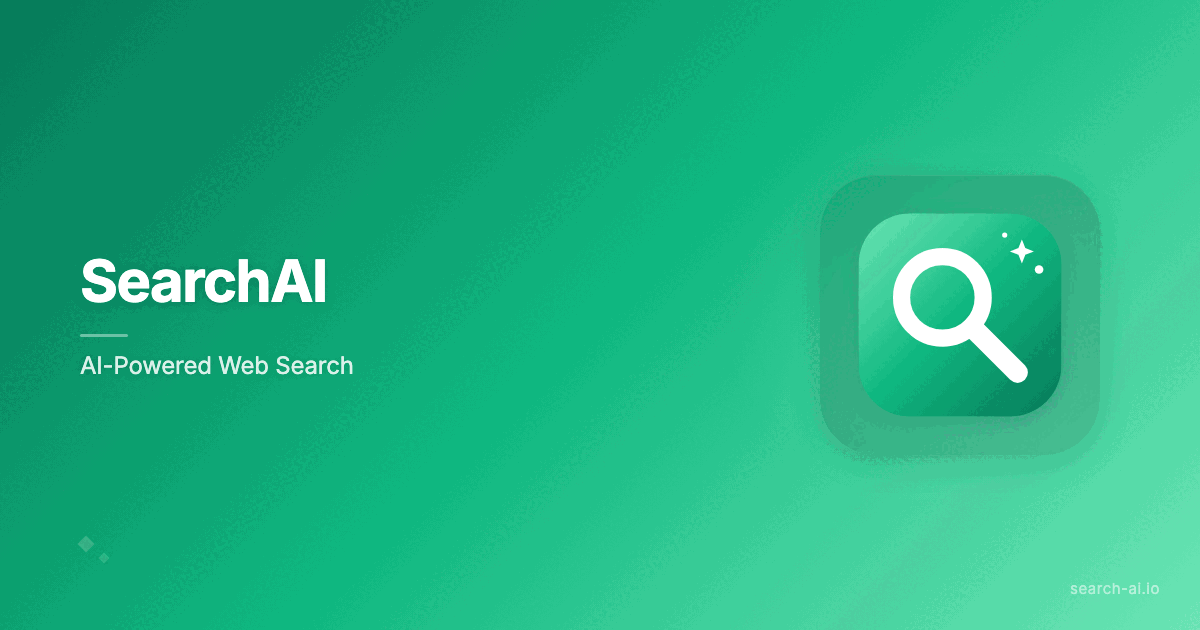
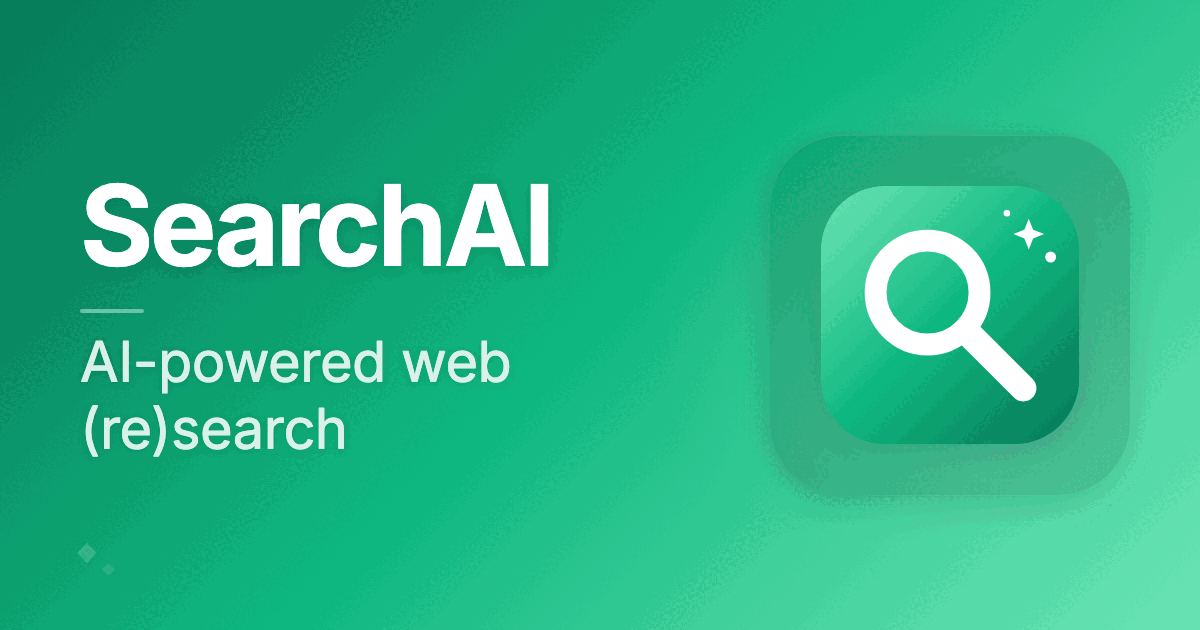
refactor(seo): extract shared SEO constants and harden proxy OG injection
The OG metadata feature (ef25a03) duplicated description/robots logic
inline in ogMeta.ts and inlined ~70 lines of fetch/inject/escape logic
in server.mjs. This extracts both into dedicated modules:

- convex/lib/constants/seo.ts: canonical source for description-for-privacy,
  robots-for-privacy, and the default chat title — consumed by ogMeta.ts
- scripts/lib/seoInject.mjs: fetchOgMeta (with discriminated ok/error
  results), injectMetaTags, and escapeHtml — consumed by server.mjs

The proxy now distinguishes infrastructure failures (502 + no-store)
from not-found (200 + no-cache) and resolved metadata (200 + max-age=60),
with X-OG-Meta-Status headers for observability. The silent catch-return-null
fallback is replaced with an explicit error path.

Also: renames rateLimited() to checkAndRecordHit() for clarity, fails
fast on invalid CONVEX_SITE_URL, and tightens ts-ignore comments in
ogMeta.ts with context explaining the permanent Convex TS2589 limitation.

- Extract convex/lib/constants/seo.ts with descriptionForPrivacy/robotsForPrivacy
- Extract scripts/lib/seoInject.mjs with fetchOgMeta/injectMetaTags
- Replace inline buildDescription/buildRobots in ogMeta.ts with imports
- Replace inline fetch/inject/escape in server.mjs with seoInject import
- Return 502 on OG metadata infrastructure failure instead of silent fallback
- Add X-OG-Meta-Status response header (resolved | not-found | error)
- Rename rateLimited() → checkAndRecordHit() for naming clarity
[…]

diff --git a/public/images/opengraph/searchai-og-card.html b/public/images/opengraph/searchai-og-card.html
@@ -42,11 +42,11 @@
     .card::after {
       content: '';
       position: absolute;
-      right: 80px;
+      right: 60px;
       top: 50%;
       transform: translateY(-50%);
-      width: 400px;
-      height: 400px;
+      width: 500px;
+      height: 500px;
       background: radial-gradient(circle, rgba(255,255,255,0.08) 0%, transparent 70%);
       pointer-events: none;
       z-index: 1;
@@ -62,85 +62,75 @@
     }
 
     .brand-name {
-      font-size: 58px;
+      font-size: 112px;
       font-weight: 700;
       color: #fff;
-      letter-spacing: -1.5px;
-      line-height: 1.1;
-      text-shadow: 0 2px 12px rgba(0,0,0,0.12);
+      letter-spacing: -3.5px;
+      line-height: 1.05;
+      text-shadow: 0 3px 16px rgba(0,0,0,0.12);
     }
 
     .tagline {
-      font-size: 24px;
+      font-size: 56px;
       font-weight: 400;
       color: rgba(255,255,255,0.85);
-      margin-top: 14px;
-      letter-spacing: -0.2px;
-      text-shadow: 0 1px 8px rgba(0,0,0,0.08);
+      margin-top: 16px;
+      letter-spacing: -0.5px;
+      line-height: 1.2;
+      max-width: 560px;
+      text-shadow: 0 2px 10px rgba(0,0,0,0.08);
     }
 
     /* Decorative accent line below brand name */
     .accent-line {
-      width: 48px;
-      height: 3px;
+      width: 64px;
+      height: 4px;
       background: rgba(255,255,255,0.4);
       border-radius: 2px;
-      margin-top: 20px;
-      margin-bottom: 6px;
+      margin-top: 24px;
+      margin-bottom: 8px;
     }
 
     /* Right icon area */
     .icon-area {
       position: absolute;
-      right: 100px;
+      right: 70px;
       top: 50%;
       transform: translateY(-50%);
       z-index: 2;
     }
 
     .icon-backdrop {
-      width: 280px;
-      height: 280px;
-      border-radius: 56px;
+      width: 360px;
+      height: 360px;
+      border-radius: 72px;
       background: rgba(0,0,0,0.12);
       backdrop-filter: blur(2px);
       display: flex;
       align-items: center;
       justify-content: center;
       box-shadow:
-        0 8px 32px rgba(0,0,0,0.15),
+        0 10px 40px rgba(0,0,0,0.15),
         inset 0 1px 0 rgba(255,255,255,0.08);
     }
 
     .icon-backdrop svg {
-      width: 220px;
-      height: 220px;
-      filter: drop-shadow(0 4px 12px rgba(0,0,0,0.1));
-    }
-
-    /* Bottom-right URL */
-    .url-label {
-      position: absolute;
-      bottom: 32px;
-      right: 40px;
-      font-size: 15px;
-      font-weight: 400;
-      color: rgba(255,255,255,0.55);
-      letter-spacing: 0.5px;
-      z-index: 2;
+      width: 280px;
+      height: 280px;
+      filter: drop-shadow(0 4px 16px rgba(0,0,0,0.1));
     }
 
     /* Subtle geometric accent — floating diamond */
     .geo-accent {
       position: absolute;
-      width: 12px;
-      height: 12px;
+      width: 14px;
+      height: 14px;
       background: rgba(255,255,255,0.15);
       transform: rotate(45deg);
       z-index: 2;
     }
-    .geo-accent.a1 { left: 80px; bottom: 80px; }
-    .geo-accent.a2 { left: 100px; bottom: 68px; width: 8px; height: 8px; background: rgba(255,255,255,0.1); }
+    .geo-accent.a1 { left: 80px; bottom: 70px; }
+    .geo-accent.a2 { left: 104px; bottom: 56px; width: 9px; height: 9px; background: rgba(255,255,255,0.1); }
   </style>
 </head>
 <body>
@@ -148,7 +138,7 @@
     <div class="text-block">
       <div class="brand-name">SearchAI</div>
       <div class="accent-line"></div>
-      <div class="tagline">AI-Powered Web Search</div>
+      <div class="tagline">AI-powered web (re)search</div>
     </div>
 
     <div class="icon-area">
@@ -172,8 +162,6 @@
         </svg>
       </div>
     </div>
-
-    <div class="url-label">search-ai.io</div>
 
     <div class="geo-accent a1"></div>
     <div class="geo-accent a2"></div>

diff --git a/convex/http/routes/ogMeta.ts b/convex/http/routes/ogMeta.ts
@@ -7,10 +7,16 @@
  */
 
 import { httpAction } from "../../_generated/server";
+import type { ActionCtx } from "../../_generated/server";
 import { api } from "../../_generated/api";
 import type { HttpRouter } from "convex/server";
 import { publicCorsResponse } from "../cors";
 import { isValidUuidV7 } from "../../lib/uuid_validation";
+import {
+  descriptionForPrivacy,
+  robotsForPrivacy,
+  DEFAULT_CHAT_TITLE,
+} from "../../lib/constants/seo";
 
 const MAX_ID_PARAM_LENGTH = 100;
 
@@ -21,26 +27,23 @@ type OgMeta = {
   robots: string;
 };
 
-function buildDescription(privacy: string): string {
-  if (privacy === "shared") return "Shared Research Chat on SearchAI";
-  return "AI-Powered Research Chat on SearchAI";
-}
-
-function buildRobots(privacy: string): string {
-  return privacy === "public" ? "index, follow" : "noindex, nofollow";
-}
-
 async function resolveChat(
-  ctx: { runQuery: typeof Object.prototype.constructor },
+  ctx: ActionCtx,
   shareId: string | undefined,
   publicId: string | undefined,
 ): Promise<{ title?: string; privacy?: string } | null> {
   if (shareId) {
-    // @ts-ignore - Known Convex TS2589 type instantiation issue on api.chats.*
+    // @ts-ignore — Permanent Convex limitation: deeply nested generated types
+    // in api.chats.* hit TypeScript's TS2589 "type instantiation excessively
+    // deep" cap. The same suppression is used across all HTTP route files
+    // (publish_export_data.ts, etc.). Convex tracks this upstream.
     return ctx.runQuery(api.chats.getChatByShareIdHttp, { shareId });
   }
   if (publicId) {
-    // @ts-ignore - Known Convex TS2589 type instantiation issue on api.chats.*
+    // @ts-ignore — Permanent Convex limitation: deeply nested generated types
+    // in api.chats.* hit TypeScript's TS2589 "type instantiation excessively
+    // deep" cap. The same suppression is used across all HTTP route files
+    // (publish_export_data.ts, etc.). Convex tracks this upstream.
     return ctx.runQuery(api.chats.getChatByPublicId, { publicId });
   }
   return null;
@@ -98,10 +101,10 @@ export function registerOgMetaRoutes(http: HttpRouter) {
 
       const privacy = chat.privacy ?? "private";
       const meta: OgMeta = {
-        title: typeof chat.title === "string" ? chat.title : "Chat on SearchAI",
-        description: buildDescription(privacy),
+        title: typeof chat.title === "string" ? chat.title : DEFAULT_CHAT_TITLE,
+        description: descriptionForPrivacy(privacy),
         privacy,
-        robots: buildRobots(privacy),
+        robots: robotsForPrivacy(privacy),
       };
 
       return publicCorsResponse({

diff --git a/index.html b/index.html
@@ -29,11 +29,11 @@
     <meta property="og:locale" content="en_US" />
     <meta
       property="og:image"
-      content="https://search-ai.io/images/opengraph/searchai-io-og.png"
+      content="https://search-ai.io/images/opengraph/searchai-og-card.png"
     />
     <meta
       property="og:image:secure_url"
-      content="https://search-ai.io/images/opengraph/searchai-io-og.png"
+      content="https://search-ai.io/images/opengraph/searchai-og-card.png"
     />
     <meta property="og:image:type" content="image/png" />
     <meta property="og:image:width" content="1200" />
@@ -49,7 +49,7 @@
     />
     <meta
       name="twitter:image"
-      content="https://search-ai.io/images/opengraph/searchai-io-og.png"
+      content="https://search-ai.io/images/opengraph/searchai-og-card.png"
     />
     <meta name="twitter:image:alt" content="SearchAI - AI-Powered Web Search" />
     <meta name="twitter:url" content="https://search-ai.io" />
@@ -60,6 +60,7 @@
     <!-- Theme color meta tag removed due to compatibility issues with Firefox, Firefox for Android, and Opera browsers -->
     <meta name="msapplication-TileColor" content="#10b981" />
     <meta name="robots" content="index, follow" />
+    <link rel="canonical" href="https://search-ai.io" />
     <link rel="preconnect" href="https://fonts.googleapis.com" />
     <link rel="preconnect" href="https://fonts.gstatic.com" crossorigin />
     <link
@@ -74,7 +75,7 @@
         "@type": "Organization",
         "name": "SearchAI",
         "url": "https://search-ai.io",
-        "logo": "https://search-ai.io/images/opengraph/searchai-io-og.png",
+        "logo": "https://search-ai.io/favicon.png",
         "sameAs": ["https://x.com/williamcallahan"]
       }
     </script>

diff --git a/convex/_generated/api.d.ts b/convex/_generated/api.d.ts
@@ -95,6 +95,7 @@ import type * as http from "../http.js";
 import type * as lib_auth from "../lib/auth.js";
 import type * as lib_constants_cache from "../lib/constants/cache.js";
 import type * as lib_constants_search from "../lib/constants/search.js";
+import type * as lib_constants_seo from "../lib/constants/seo.js";
 import type * as lib_dateTime from "../lib/dateTime.js";
 import type * as lib_debugUtils from "../lib/debugUtils.js";
 import type * as lib_errors from "../lib/errors.js";
@@ -241,6 +242,7 @@ declare const fullApi: ApiFromModules<{
   "lib/auth": typeof lib_auth;
   "lib/constants/cache": typeof lib_constants_cache;
   "lib/constants/search": typeof lib_constants_search;
+  "lib/constants/seo": typeof lib_constants_seo;
   "lib/dateTime": typeof lib_dateTime;
   "lib/debugUtils": typeof lib_debugUtils;
   "lib/errors": typeof lib_errors;

diff --git a/convex/lib/constants/seo.ts b/convex/lib/constants/seo.ts
@@ -1,0 +1,23 @@
+/**
+ * SEO metadata constants for Convex HTTP endpoints.
+ * Canonical source for privacy-based descriptions and robots directives
+ * used by ogMeta and publish_export_data routes.
+ *
+ * Frontend mirror: src/lib/constants/seo.ts (keep in sync).
+ */
+
+export const SHARED_DESCRIPTION = "Shared Research Chat on SearchAI";
+export const PUBLIC_DESCRIPTION = "AI-Powered Research Chat on SearchAI";
+export const DEFAULT_CHAT_TITLE = "Chat on SearchAI";
+
+export const ROBOTS_INDEX = "index, follow";
+export const ROBOTS_NOINDEX = "noindex, nofollow";
+
+export function descriptionForPrivacy(privacy: string): string {
+  if (privacy === "shared") return SHARED_DESCRIPTION;
+  return PUBLIC_DESCRIPTION;
+}
+
+export function robotsForPrivacy(privacy: string): string {
+  return privacy === "public" ? ROBOTS_INDEX : ROBOTS_NOINDEX;
+}
